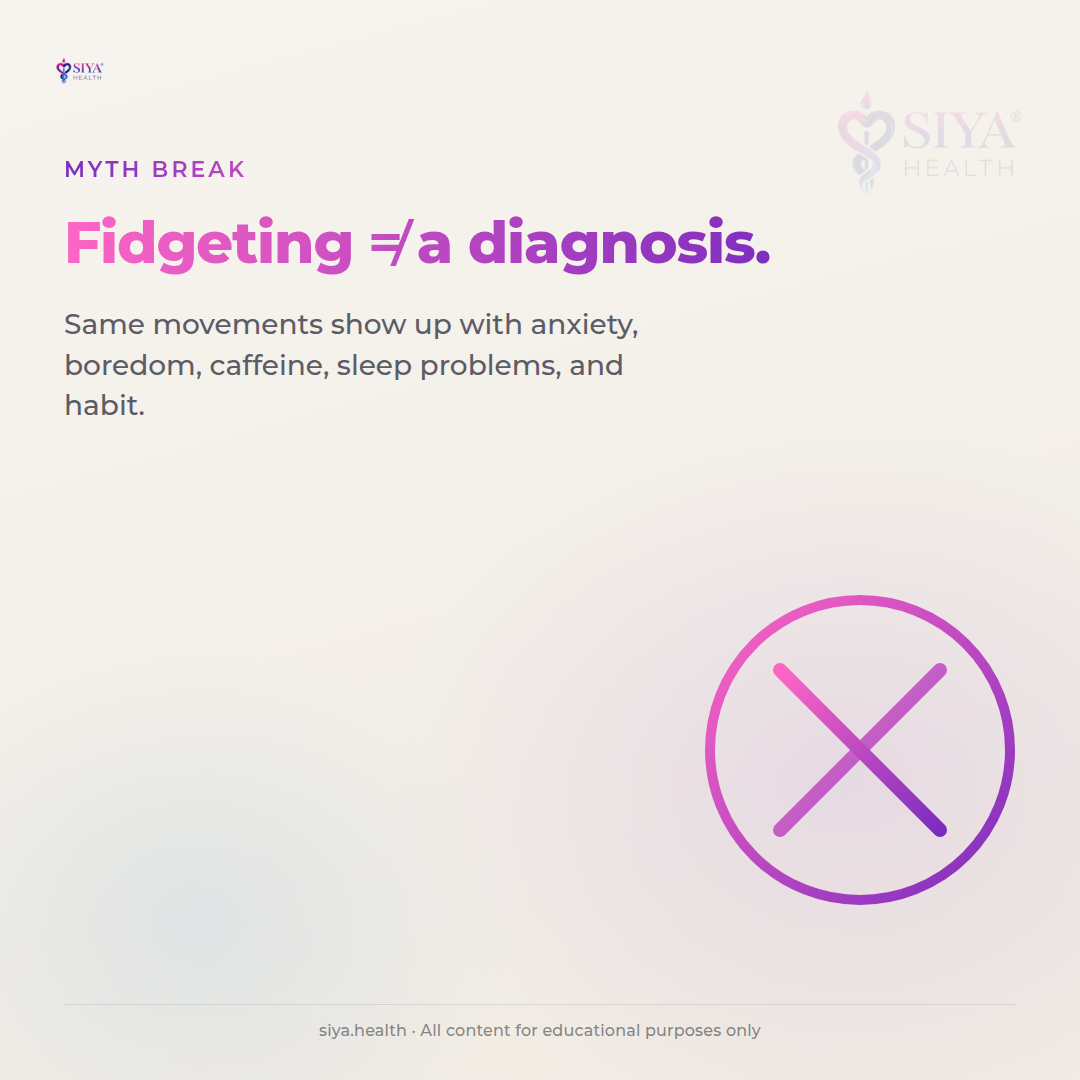
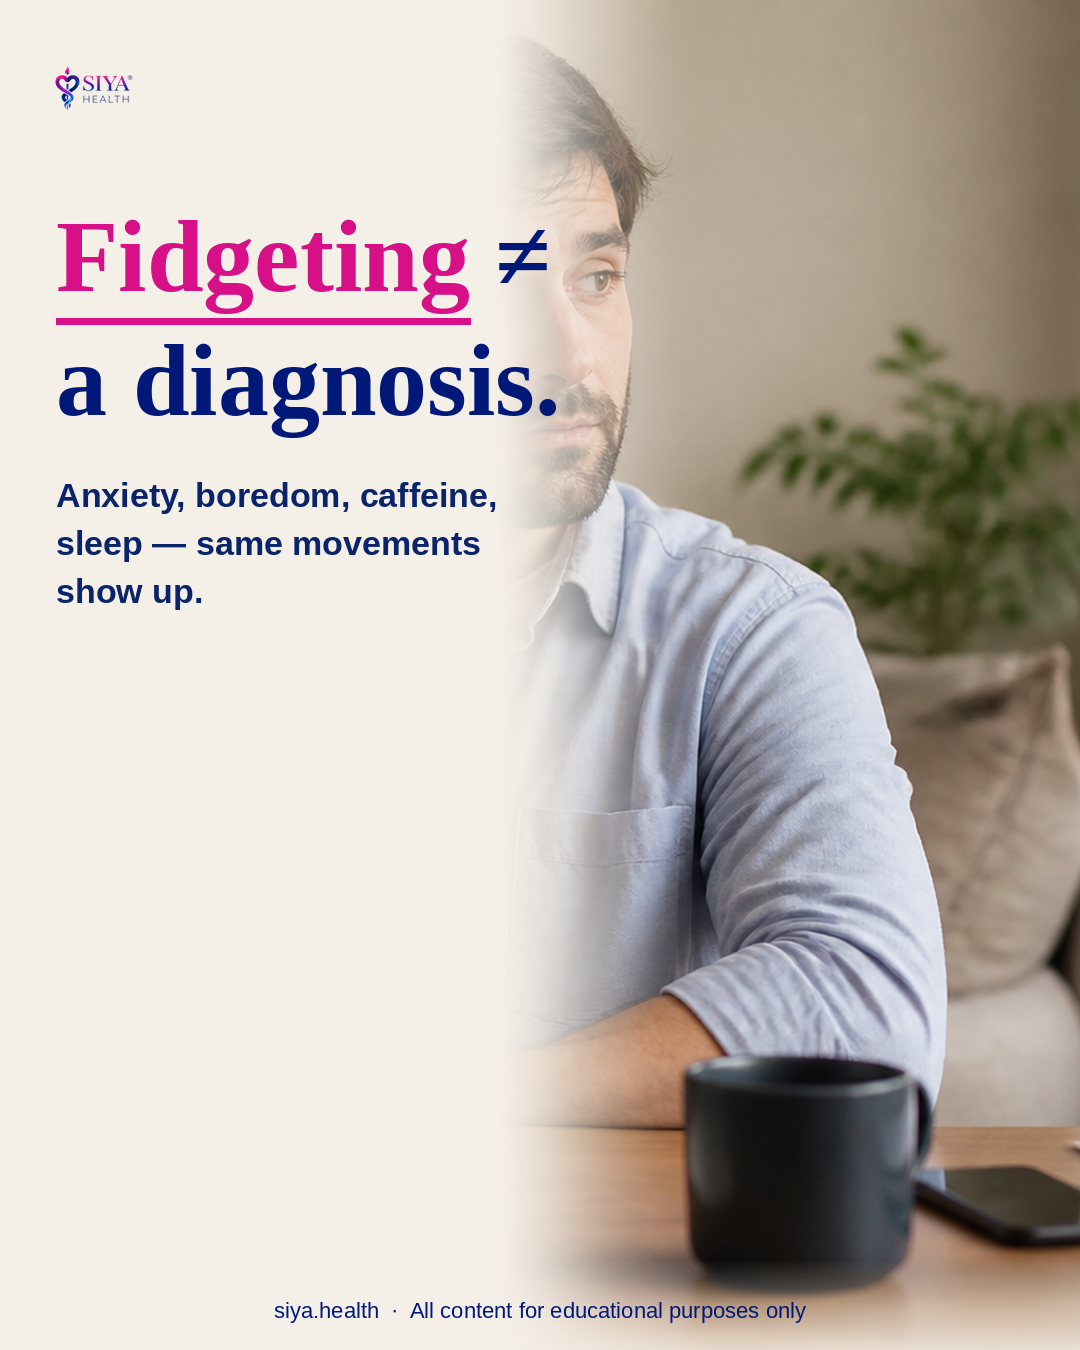
Regen AD-P-01 full carousel on A-03 brand lock
Softer cream dissolve, right-weighted portrait source, compose_pack.sh
for all 7 slides via compose_format_a_knowledge.py (4:5 lean).

diff --git a/apps/siya-health/brand/scripts/compose_format_a_knowledge.py b/apps/siya-health/brand/scripts/compose_format_a_knowledge.py
@@ -81,19 +81,30 @@ def fit_cover_right(photo: Image.Image, box_w: int, box_h: int) -> Image.Image:
 
 
 def soft_dissolve_mask(width: int, height: int, cream_end: int, fade: int) -> Image.Image:
-    """Alpha mask: 0 = cream/text zone, 255 = full photo. Soft dissolve across fade."""
+    """Alpha mask: 0 = cream/text zone, 255 = full photo. Soft ease dissolve (no hard L)."""
     mask = Image.new("L", (width, height), 0)
     px = mask.load()
     start = max(0, cream_end - fade // 2)
     end = min(width, cream_end + fade // 2)
+    span = max(1, end - start)
+    # Soft bottom cream band so footer stays readable over photo
+    footer_band = 90
     for x in range(width):
         if x < start:
-            a = 0
+            a_x = 0
         elif x > end:
-            a = 255
+            a_x = 255
         else:
-            a = int(255 * (x - start) / max(1, end - start))
+            t = (x - start) / span
+            # smoothstep ease — matches SPEC-PROOF soft cream dissolve
+            t = t * t * (3 - 2 * t)
+            a_x = int(255 * t)
         for y in range(height):
+            a = a_x
+            if y > height - footer_band:
+                # fade photo out toward cream at footer
+                fy = (y - (height - footer_band)) / footer_band
+                a = int(a * (1 - fy * 0.85))
             px[x, y] = a
     return mask
 
@@ -206,7 +217,7 @@ def compose(
 ) -> None:
     canvas = Image.new("RGB", (W, H), CREAM)
     cream_end = int(W * cream_ratio)
-    fade = 160
+    fade = 220  # wide soft dissolve — reject hard-seam L
 
     photo = Image.open(photo_path)
     # Photo spans full height; soft-masked over cream

diff --git a/apps/siya-health/brand/editorial-packs/AD-P-01/carousel.md b/apps/siya-health/brand/editorial-packs/AD-P-01/carousel.md
@@ -1,8 +1,8 @@
-# Instagram Carousel — AD-P-01 (v2 theme)
+# Instagram Carousel — AD-P-01
 
 **Insight:** Physical signs that may appear with ADHD — and why they're not enough to diagnose  
 **Audience:** Adults 25–50  
-**Theme:** Visual OS v2.1 / `BRAND-STYLE-LOCK.md` — Knowledge **A-03** lean  
+**Classify:** Knowledge · Template **A-03** lean (`BRAND-STYLE-LOCK.md` · `AGENT-BOOTSTRAP.md`)  
 **Format:** 4:5 · 1080×1350  
 **Tokens:** Cream `#F4EFE7` · Navy `#001878` · Magenta `#D81088` · Georgia + Arial  
 **Logo:** LOGO-PRIMARY top-left · **no** ambient watermark  
@@ -10,76 +10,48 @@
 **CTA (close only):** Talk to a Clinician  
 **Voice:** Company only (no founder LinkedIn)  
 **Clinical review:** Required before publish  
-**Compositor:** `brand/scripts/compose_format_a_knowledge.py`  
-**Ready:** `ready-to-post/` · `images/ready/`  
+**Compositor:** `bash compose_pack.sh` → `brand/scripts/compose_format_a_knowledge.py`  
+**Ready:** `ready-to-post/`  
 **Reject:** plum · hard-L · HTML/Chrome freehand finals · `GenerateImage` as branded frame
 
 ---
 
-## Slide 1 — Cover (Template A)
-**Category pill:** Adult ADHD  
-**Headline:** Physical **signs** that may appear with ADHD *(magenta on “signs”)*  
-**Support:** — and why they're not enough to diagnose.  
-**Feeling badge:** Common isn’t conclusive  
-**Visual:** Lifestyle portrait (right)  
-**Footer bar:** Care. Compassion. Connection. · (215) 445-1244 · www.siya.health · educational note
+## Slide 1 — Cover
+**Headline:** Physical **signs** of ADHD.  
+**Recognition:** They may show up — they're not enough to diagnose.  
+**Photo:** portrait (right-weighted)
 
----
-
-## Slide 2 — What people notice (A-03 lean · composed)
+## Slide 2 — What people notice
 **Headline:** The **body** shows first.  
 **Recognition:** Leg bounce. Restless sleep. Lived patterns — not a diagnosis.  
-**Photo:** `images/bases/ad-p01-base-fidget.png` (right-weighted)  
-**Compose:**
-```bash
-python3 apps/siya-health/brand/scripts/compose_format_a_knowledge.py \
-  --photo apps/siya-health/brand/editorial-packs/AD-P-01/images/bases/ad-p01-base-fidget.png \
-  --logo apps/siya-health/assets/images/siya-health-logo-registered.png \
-  --out apps/siya-health/brand/editorial-packs/AD-P-01/ready-to-post/slide-02-ready.png \
-  --headline "The body
-shows first." \
-  --accent "body" \
-  --recognition "Leg bounce. Restless sleep.
-Lived patterns — not a diagnosis."
-```
-**Caption teaching (not on-frame):** nail biting · pacing · can’t sit through a movie · overlap with anxiety/sleep/habit
-
----
+**Photo:** fidget  
+**Caption teaching:** nail biting · pacing · can’t sit through a movie · overlap with anxiety/sleep/habit
 
 ## Slide 3 — Adult hyperactivity
-**Eyebrow:** Adult presentation  
-**Headline:** Adult “hyperactivity” is often quiet.  
-**Support:** Inner restlessness. Fidgeting that helps focus. Muscle strain from “sitting still.”
+**Headline:** Adult hyperactivity is **quiet.**  
+**Recognition:** Inner restlessness. Focus fidgeting. Stillness can still take strain.  
+**Photo:** portrait
 
----
-
-## Slide 4 — Myth break
-**Eyebrow:** Myth break  
-**Headline:** Fidgeting ≠ a diagnosis.  
-**Support:** Same movements show up with anxiety, boredom, caffeine, sleep problems, and habit.
-
----
+## Slide 4 — Myth
+**Headline:** **Fidgeting** ≠ a diagnosis.  
+**Recognition:** Anxiety, boredom, caffeine, sleep — same movements show up.  
+**Photo:** fidget
 
 ## Slide 5 — Inattentive / masking
-**Eyebrow:** Inattentive & masking  
-**Headline:** You can have ADHD without looking hyper.  
-**Support:** Inattentive ADHD may show little overt movement. Sitting calmly in an appointment does not rule it out.
+**Headline:** ADHD without looking **hyper.**  
+**Recognition:** Inattentive ADHD can look calm. Sitting still doesn't rule it out.  
+**Photo:** portrait
 
----
-
-## Slide 6 — Practical change
-**Eyebrow:** Practical step  
-**Headline:** Common isn't conclusive.  
-**Support:** If the pattern is lifelong and getting in the way — take a validated screener, then talk to a clinician. Don't diagnose from a fidget list.
-
----
+## Slide 6 — Practical
+**Headline:** Common **isn't** conclusive.  
+**Recognition:** Lifelong + impairing → validated screener, then talk to a clinician.  
+**Photo:** sleep
 
 ## Slide 7 — Close
-**Eyebrow:** Next step  
-**Headline:** Start with pattern + impairment.  
-**Support:** A fidget list isn't a diagnosis. Look at lifelong pattern and how it shows up across work, home, and relationships — with a clinician.  
+**Headline:** Start with **pattern.**  
+**Recognition:** Across work, home, and relationships — with a clinician, not a fidget list.  
 **CTA:** Talk to a Clinician  
-**Contact:** siya.health/adhd-screening · (215) 445-1244 · www.siya.health
+**Photo:** portrait
 
 ---
 

diff --git a/apps/siya-health/brand/editorial-packs/AD-P-01/README.md b/apps/siya-health/brand/editorial-packs/AD-P-01/README.md
@@ -4,9 +4,9 @@ Physical signs that may appear with ADHD — and why they're not enough to diagn
 
 **Practical:** If these patterns are lifelong and impairing, take a validated screener / talk to a clinician — don't diagnose from fidgeting alone.
 
-**Stack:** `AGENT-BOOTSTRAP.md` → `BRAND-STYLE-LOCK.md` → Knowledge **A-03**  
-**Compositor:** `../../scripts/compose_format_a_knowledge.py`  
-**Do not** ship HTML/Chrome freehand or cream-Montserrat PE-B covers as finals.
+**Stack:** `AGENT-BOOTSTRAP.md` → `BRAND-STYLE-LOCK.md` → Knowledge **A-03** lean  
+**Compose all slides:** `bash compose_pack.sh`  
+**Compositor:** `../../scripts/compose_format_a_knowledge.py`
 
 **Research:** `../../research/2026/physical-signs-adhd-adults/SYNTHESIS.md`  
-**Ready:** `ready-to-post/`
+**Ready:** `ready-to-post/` (7× 1080×1350)
